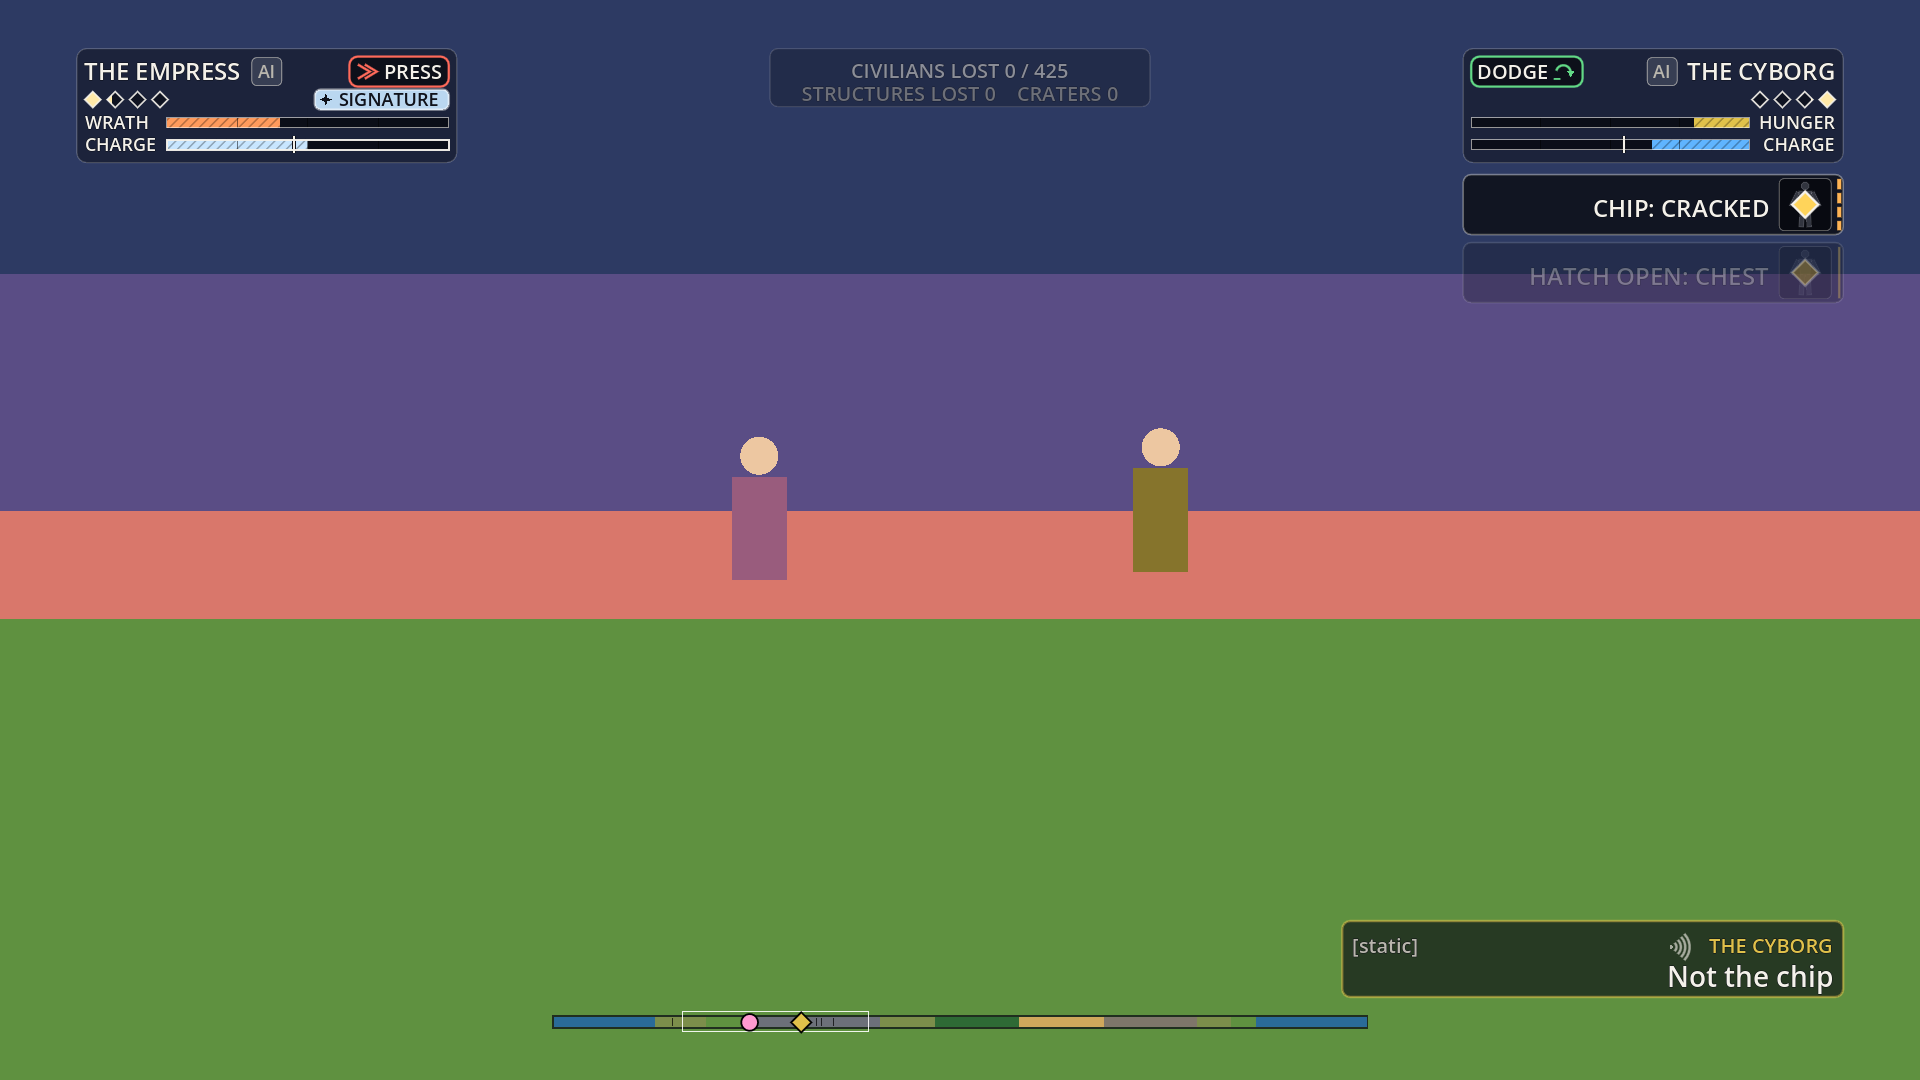
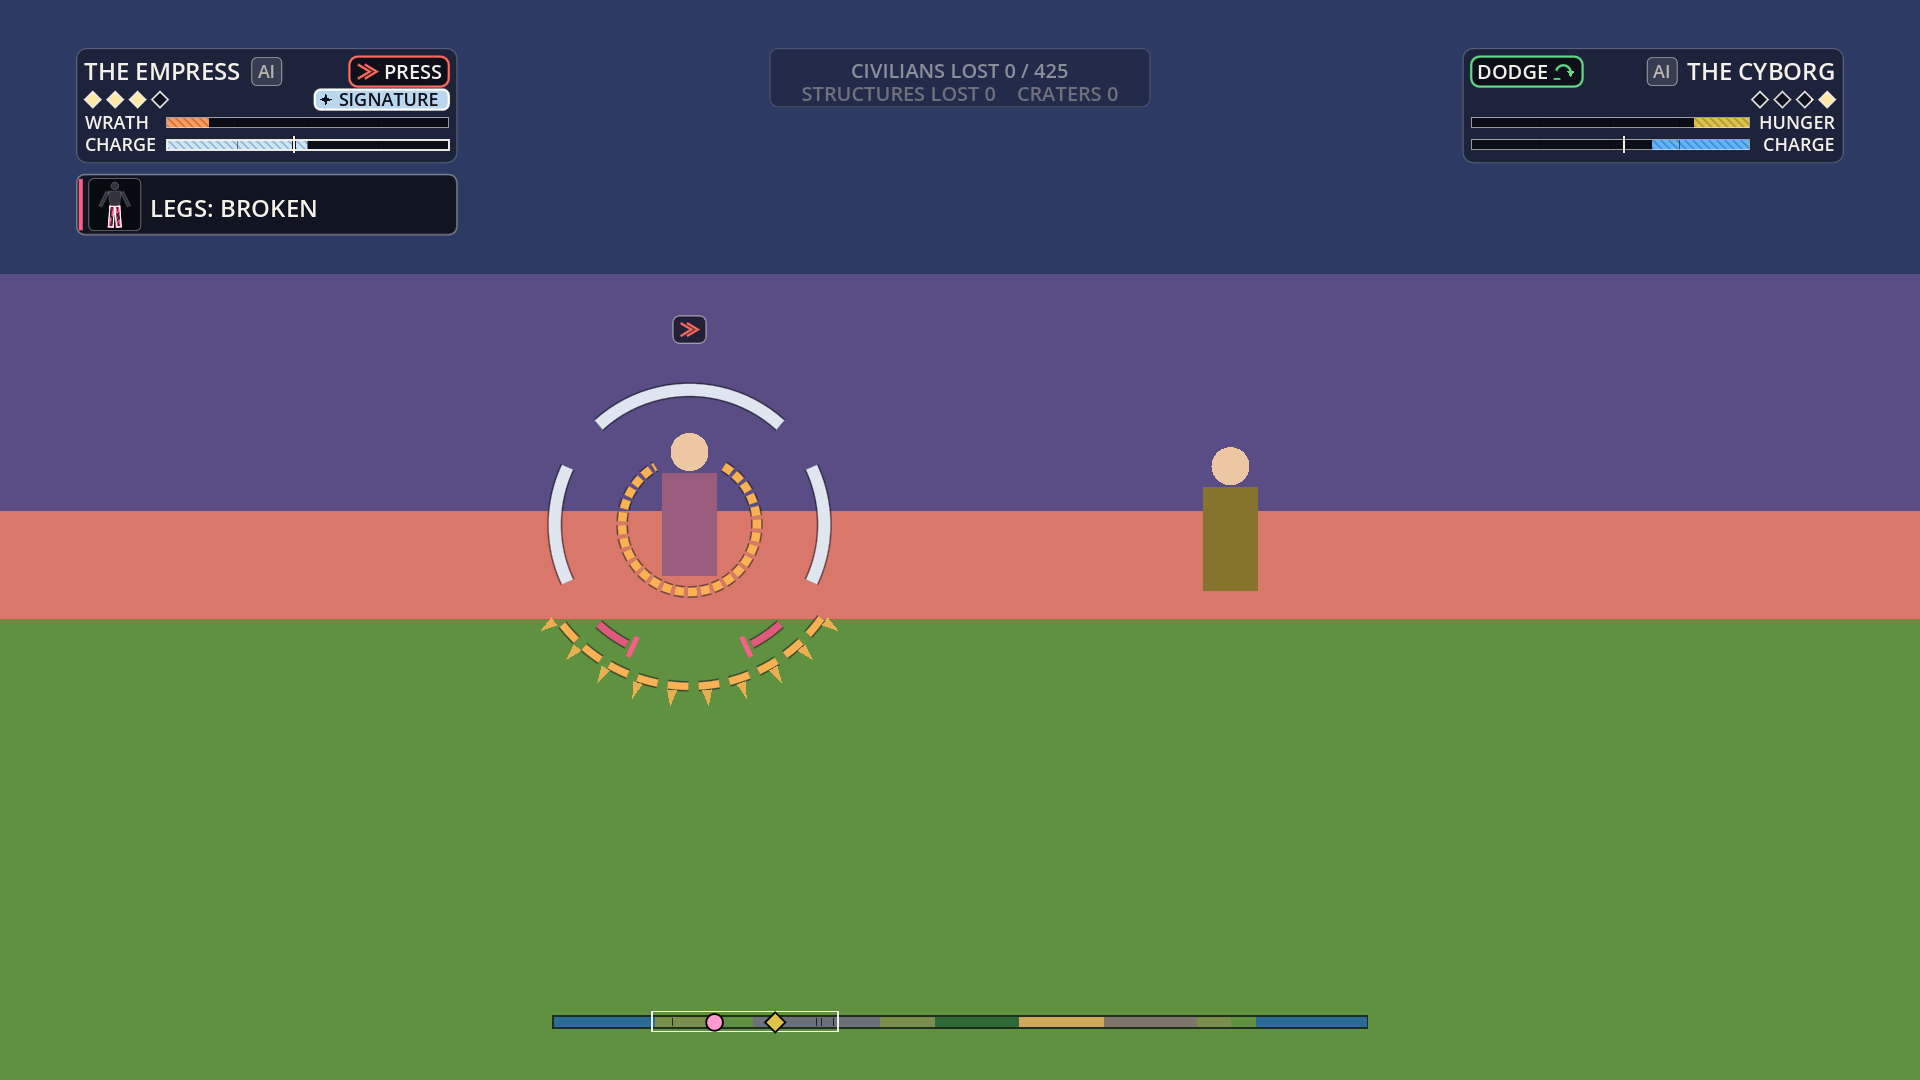
UI: crown owns wear only; crown_up callback for flashes; neutral crown colours

diff --git a/docs/ui/hud-spec.md b/docs/ui/hud-spec.md
@@ -10,7 +10,7 @@ Orb: "if the rings pop up momentarily then fade back it looks good as far as I c
 
 | Layer | Before (revision 1) | After (revision 2) |
 | :--- | :--- | :--- |
-| Aura crown | Always drawn around both fighters | **Transient.** Pops on a hit to a region, a stage change, brink enter or exit, a Rally, a tier-up or transformation, a boil-over or the facade crack, then fades in about 1 to 1.5 s. At rest: nothing |
+| Aura crown | Always drawn around both fighters | **Transient, and it owns wear only.** Pops for a stage change, brink enter or exit, a Rally, the facade crack and a boil-over, then fades in about 1 to 1.5 s. Not for a plain hit (Art's head flashes own emotion and sense). Down during a transformation cinematic. At rest: nothing |
 | Brink | Part of the crown | The one persistent cue: a **thin, faint, slow ring** (alpha 0.16 to 0.38, about 1.2 Hz), only while a fighter is on the brink. Plus a small icon on the plate |
 | Stance and hidden marker over the fighter | Always | Only while the crown is up |
 | Nameplate | 440 by 166 (15% of the height), five rows, tier names | **380 by 114 (11%)**, four rows: the stance chip shares the name's row, the state chips share the pips' row. Lighter scrim, no tier-name text |
@@ -29,11 +29,11 @@ Before and after, the same moment of the mock fight:
 | ![before: facade cracks](img/before-facade.png) | ![after: facade cracks](img/hud-facade.png) |
 | ![before: the Empress and the Cyborg](img/before-empress-cyborg.png) | ![after: the Empress and the Cyborg](img/hud-empress-cyborg.png) |
 
-At rest, and a moment after a hit (the crown is fading back):
+At rest, and a moment after a stage change (the crown has popped and is fading back):
 
-| At rest | A hit, fading |
+| At rest | A stage change (arms battered), the crown popped |
 | :---: | :---: |
-| ![at rest](img/hud-rest.png) | ![a hit](img/hud-hit.png) |
+| ![at rest](img/hud-rest.png) | ![a stage change, fading](img/hud-pop.png) |
 
 ## 0. The idea in one screen
 
@@ -111,17 +111,22 @@ Recommendation: **landscape is the phone default**; portrait is a fallback. The 
 
 The crown is Orb's readout, made momentary. It is drawn on the HUD layer around each fighter's screen position (a host callback gives position and height), so Rendering does not build it in 3D.
 
-**When it pops** (each sets the fighter's `crown_hold`; a second pop extends the hold, never shortens it):
+**When it pops.** The crown owns **wear** and nothing else. Art's head flashes (`docs/art/marked-aura.md`) own emotion and sense, and a flash and a crown are never up together on one fighter. Each pop sets the fighter's `crown_hold`; a second pop extends the hold, never shortens it.
 
 | Event | Hold (plus 0.1 s rise and 0.5 s fall) | Total |
 | :--- | :--- | :--- |
-| A hit to a region (`damage`, on the victim) | 0.35 s, and **at most one pop per second** so a chain of blows is not a strobe | about 1.0 s |
-| A region got worse (`region_stage`, a bruise or more) | 0.60 s | about 1.2 s |
-| A break, brink enter or exit, a Rally, a tier-up or a transformation, a boil-over, the facade crack, Drop the Act | 0.90 s | about 1.5 s |
+| A region got worse (`region_stage`, a bruise or more; also internal core wear) | 0.60 s | about 1.2 s |
+| A break, brink enter or exit, a Rally, a boil-over, the facade crack | 0.90 s | about 1.5 s |
+| **A plain hit** (`damage`), a tier-up, a heat stage, Drop the Act on its own | **none** | |
 | A recovery (a region improving) | none: quiet | |
 | A stage change hidden by the Anti-hero's Pride mask | none (the front holds) | |
+| **During a transformation cinematic** (`transformation`, `revision`) | **none, and a crown showing fades out in 0.1 s**: the surge owns the fighter | |
 
-The region that was hit flashes at double thickness for 0.3 s. A hit that changes no stage still shows the whole crown for a moment, so the player sees where the fighter is worn.
+A hit still marks its region (the silhouette flashes it if it is on); it just does not pop the crown. The region that got worse flashes at double thickness for 0.3 s.
+
+**Flash arbitration: `crown_up(actor) -> bool`.** `UiHud.crown_up(actor)` (and `UiEventHub.crown_up`) is true while that fighter's crown is popped or still fading, and false during a transformation cinematic. Rendering's FlashView calls it: a flash due while the crown is up waits up to 0.25 s and is then dropped; a wear event arriving while a flash is up fades the flash in 0.1 s (the crown pops on the same event). With the `crown_always` accessibility option the crown is always up, so no flash shows for that player; Accessibility and Art should decide whether that is acceptable. The faint brink ring does not count as up (Art draws its brink flash next to it).
+
+**Colours.** Crown strokes use **neutral role colours only** and never a fighter's accent: fresh is a pale neutral (`#dfe6f0`), then the wound roles (bruised, battered, broken). Art's flashes carry the accent. The silhouette and the cards' body glyph still take the fighter's colour for fresh regions; if Art wants them neutral too it is one constant.
 
 **At rest.** Nothing. The one exception is **brink**: a thin ring at 1.1 R, alpha 0.16 to 0.38, breathing at about 1.2 Hz. Justification: brink is the only state that must be findable at a glance at any moment (spec §5 test 8, "who was closer to losing"; the finisher follows it), it is a state and not an event, and a slow, low, thin ring costs almost nothing over the choreography. It sits with the plate's brink icon, the `ON THE BRINK` card and the silhouette panel, which are all at the edge. It is an option (`brink_cue`, on by default); under reduced motion it is a static dashed ring. When the crown pops on a brink fighter the ring gives way to the full crown's own gutter.
 
@@ -139,7 +144,7 @@ The region that was hit flashes at double thickness for 0.3 s. A hit that change
 
 | Stage | Shape | Motion | Colour role |
 | :--- | :--- | :--- | :--- |
-| Fresh | solid arc | none | the fighter's own colour |
+| Fresh | solid arc | none | a neutral (pale) |
 | Bruised | solid, thinner, a tick at each end | none | pale |
 | Battered | dashed, thinner | flickers about 4 Hz | amber |
 | Broken | two short stubs and a spark tick: **a gap** | none | rose |
@@ -296,21 +301,21 @@ The hub (`ui/core/ui_event_hub.gd`) takes Dictionaries or objects with the same 
 
 | Event | Fields | HUD effect |
 | :--- | :--- | :--- |
-| `damage` | attacker, victim, region, kind | pops the victim's crown (throttled); the region flashes. No number |
+| `damage` | attacker, victim, region, kind | marks the region (the silhouette flashes it); no crown pop, no number |
 | `region_stage` | actor, region, stage (0 to 3 or a name); optional `internal` | model, silhouette; card and pop if worse; quiet if better |
 | `region_broken` | actor, region | merges with the stage card |
 | `brink_enter`, `brink_exit` | actor | icon, faint ring, card, pop |
-| `tier_up` | actor, tier | pop |
+| `tier_up` | actor, tier | no crown pop (the banner names it)|
 | `rally` | actor, region | mend sweep, the fighter's own card, pop |
-| `heat_stage`, `boil_over` | actor, stage | heat cards, core ring, flash |
-| `facade_crack`, `shame_stack`, `drop_act` | actor, n | unmask, notches, cards, pop |
+| `heat_stage`, `boil_over` | actor, stage | heat cards, core ring; a boil-over pops the crown, a heat stage does not |
+| `facade_crack`, `shame_stack`, `drop_act` | actor, n | unmask, notches, cards; the facade crack pops the crown |
 | `revision_reprint` | actor, revision, region | silhouette patch; no card |
 | `hatch_open`, `hatch_close`, `chip_stage` | actor, station, stage | rail, cards |
 | `fold_flicker`, `fold_start`, `unfold` | | world card; `fold_start` is a cinematic |
 | `finisher_start`, `ko` | actor, winner, loser, dur | cinematic mode |
 | `window_open` | actor, kind (parry or chain), dur, n | crown windows |
 | `chain`, `lock_lost` | actor, n, dur | chain chip, `TRAIL LOST` chip |
-| `cinematic_start`, `cinematic_end` | actor, kind, dur | cinematic mode, pop |
+| `cinematic_start`, `cinematic_end` | actor, kind, dur | cinematic mode; a `transformation` or `revision` holds the crown down |
 | `bark` | speaker, text, cues, priority, dur, setpiece | bark lane or letterbox band |
 | `banner`, `shake` | text, col, dur; k | banner (renamed); hazard mode |
 | `state` | actor and a patch of stance, tier, momentum, charge, ego, hidden, charging, aura, name, wear | plate |
@@ -346,7 +351,7 @@ Every word the HUD draws is data in `ui/data/terms.json`, from Narrative's gloss
 | Screen readers | Not built | A spoken line per card and chip; card text is one string |
 | Cinematic thinning | Automatic | Confirm, or add "keep the HUD" |
 
-**Colour roles** (provisional hex, all in `ui/core/ui_look.gd`): `stage.fresh` the fighter's colour; `stage.bruised` `#f2e6a0`; `stage.battered` `#ffb454`; `stage.broken` `#ff5c8a`; `internal` `#bfeeff` (never red); `charge` `#5fb4ff`; `charge.ready` `#c8e6ff`; ego roles `respect` `#6fd1a8`, `pride` `#c9a8ff`, `wrath` `#ff9a5c`, `hunger` `#e0c14a`, `menace` `#b05cff`, `anguish` `#3fd6c5`; stance roles `#ff6a5a`, `#5aaaff`, `#62d986`, `#b892ff`; `tier.pip` `#ffe9a8`; `hidden` `#bedcff`; `warn` `#ffd45a`.
+**Colour roles** (provisional hex, all in `ui/core/ui_look.gd`): `crown.fresh` `#dfe6f0` (neutral, never a fighter accent); `stage.fresh` (silhouette and cards) the fighter's colour; `stage.bruised` `#f2e6a0`; `stage.battered` `#ffb454`; `stage.broken` `#ff5c8a`; `internal` `#bfeeff` (never red); `charge` `#5fb4ff`; `charge.ready` `#c8e6ff`; ego roles `respect` `#6fd1a8`, `pride` `#c9a8ff`, `wrath` `#ff9a5c`, `hunger` `#e0c14a`, `menace` `#b05cff`, `anguish` `#3fd6c5`; stance roles `#ff6a5a`, `#5aaaff`, `#62d986`, `#b892ff`; `tier.pip` `#ffe9a8`; `hidden` `#bedcff`; `warn` `#ffd45a`.
 
 ## 14. Implementation, hosting and what is missing
 
@@ -354,7 +359,7 @@ Every word the HUD draws is data in `ui/data/terms.json`, from Narrative's gloss
 
 **Hosting.** Rendering already hosts `ui/hud/ui_hud.tscn` (setup, `anchor_fn`, `strip_fn`, `UiSimBridge.patch`, `consume_all` from `SimHost.drained`, `advance`). **Revision 2 does not change the hosting interface.** The differences a host may notice: the silhouette option now defaults to off (call `set_option("silhouette", true)` in training and for the accessibility default); two new options, `crown_always` and `brink_cue`; the HUD reads the fighter's `wear` through the bridge.
 
-**Verification.** `godot --headless --path . --script res://ui/tools/hud_check.gd`: 713 checks pass. New in revision 2: the crown is down at rest; a hit pops the victim only; a chain of four blows in 0.8 s is one short pop; a stage change, the brink, a Rally and a tier-up pop it and a recovery does not; a masked stage change does not pop it and a break does; the longest pop is 1.5 s; the sim's own `FxEvent` objects are read as they are; a real hit and a real S1 stage change from the live sim reach the model and pop the crown; the dense scripted fight has a crown up in 46% of the time (the live sim, with far fewer hits, will be much lower).
+**Verification.** `godot --headless --path . --script res://ui/tools/hud_check.gd`: 726 checks pass. For the crown: it is down at rest; a plain hit, a tier-up, a heat stage and Drop the Act on their own do not pop it; a stage change, the brink, a Rally, a boil-over and the facade crack do; a recovery and a Pride-masked stage change do not, a break does; `crown_up` is true while popped or fading and false otherwise; a transformation cinematic fades it out in 0.1 s and keeps it down until it ends (a finisher does not lock it); the stroke colours are neutral roles and never a fighter accent; the parry window's ring draws with no pop showing; the sim's own `FxEvent` objects are read as they are; a real S1 stage change reaches the model and pops the crown; the dense scripted fight has a crown up in 27% of the time (the live sim, with far fewer stage changes, will be much lower).
 
 **Performance (2026-09-29).** The HUD is a stack of cached layers (`ui/hud/ui_layer.gd`): each keeps its draw commands until a small signature changes (a few numbers computed every frame, 0.03 ms in all), so at rest the HUD redraws nothing and the crown, card, bark and banner layers draw nothing at all. The plates redraw when a bar moves a whole percent or a chip changes; the strip's moving marks when a fighter or the camera moves half a pixel; the crown, cards and barks every frame while they show. Also: bar stripes are one tiled texture instead of a line per stripe, the strip's segments and ticks are one multi-line each, and plate text drawn last so shapes and text do not interleave. Measured with `ui/tools/hud_bench.gd` (the live build, seed 4, HUD shown against hidden in alternating blocks of 300 frames, vsync off, RTX 5070 Ti, Compatibility renderer):
 
@@ -372,7 +377,7 @@ The wall-time cost of redrawing everything each frame is about +1.1 ms; caching 
 **Not built.** The menu flow, character select, pause, settings and results; the full debug overlay and scrub; training's hint line and toggles; the caption levels and speed; a text-size option; screen-reader lines; controller and touch prompts; a bundled font.
 
 **Risks.**
-- **A pop may still be a lot in a long chain of exchanges.** A hit re-pops at most once a second, so a fighter under sustained attack has the crown up about a third of the time. If that is too much, lengthen `CROWN_HIT_GAP` or pop only on heavy hits (the `damage` event carries `kind`). Needs a playtest with real hit rates once S2 lands.
+- **The crown is now rare.** It pops only for wear, so in the live sim it may almost never show until S2 retunes the wear rate; the plate, the cards and Art's flashes carry the fight until then. The spec's test 9 ("name the region most recently broken") relies on the crown and cards, so recheck it once wear is real.
 - **The crown at the widest zoom** (spec §5, test 10) is floored at 46 px, but two fighters in melee overlap their pops.
 - **The brink ring** is faint by design; on a bright background it may need a stronger role. Art and Accessibility.
 - **Phone portrait's fight window** is 25 to 31% of the height; landscape should be the phone default.
